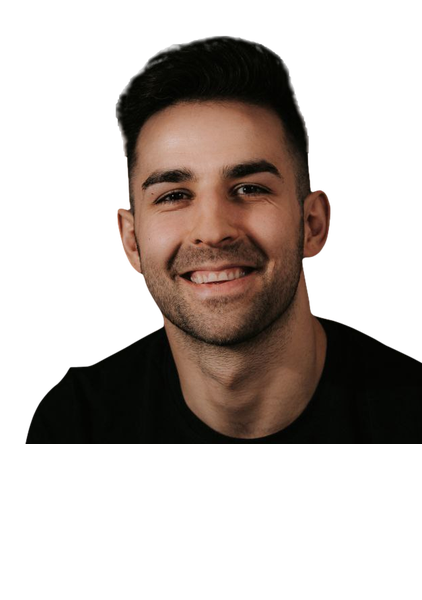
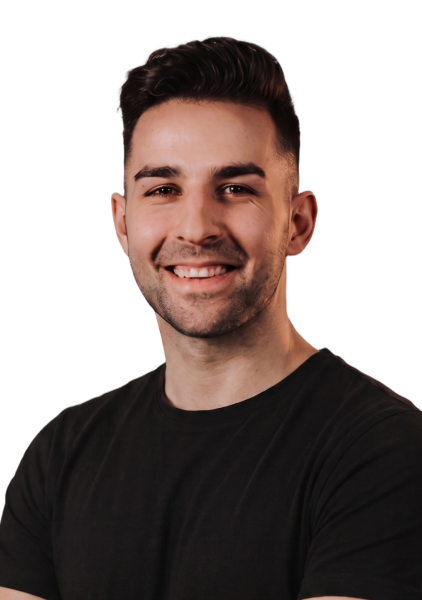
feat(o-nas): restore Paulina, Kasia and Przemysław to the team slider
All three were commented out of the slider (PL + EN) pending better source
photos: Paulina and Katarzyna had only low-res square crops, and Przemysław a
tight head+shoulders crop that floated in the full-height frame. New
front-facing 2K studio portraits resolve all three, so the entries are
uncommented and the slider now carries the full 12-person roster in both
locales, matching the homepage grid.

Portraits re-cut through the slider recipe (bria-rmbg + decontam, head width
anchored to 0.42 of the frame): the three land at 0.396-0.418, in line with the
existing cohort's ~0.39, and bleed off the bottom edge like the rest. The
homepage why-that-works grid needed no change — it reads the same
public/o-nas/slider files.

diff --git a/lib/content/o-nas.ts b/lib/content/o-nas.ts
@@ -228,17 +228,13 @@ export const oNasTeam = {
       bio: 'Zaczynała w Warner Bros. Discovery, tworząc komunikację dla marek takich jak player.pl, TVN czy HBO Max. Dziś w Social Lamie prowadzi zespół, koordynuje komórkę wideo i odpowiada za strategie oraz kampanie dla marek z wielu branż.',
       photo: '/o-nas/slider/emilia-metryka.png',
     },
-    // TEMP: excluded pending a better source photo — the only shot we have is a
-    // low-res square crop that can't be cut out to match the front-facing
-    // head+torso set. Re-enable (here and in o-nas.en.ts) once a proper photo
-    // arrives. Keep this in sync with the EN twin so PL/EN parity holds.
-    // {
-    //   given: 'PAULINA',
-    //   surname: 'HILDEBRAND',
-    //   role: 'Social Media Manager',
-    //   bio: 'Łączy humanistyczną wrażliwość na słowo z analitycznym podejściem do danych, tworząc komunikację, która naprawdę działa w social mediach. Specjalizuje się w kompleksowym prowadzeniu profili marek — od strategii po relacje z klientami.',
-    //   photo: '/o-nas/slider/paulina-hildebrand.png',
-    // },
+    {
+      given: 'PAULINA',
+      surname: 'HILDEBRAND',
+      role: 'Social Media Manager',
+      bio: 'Łączy humanistyczną wrażliwość na słowo z analitycznym podejściem do danych, tworząc komunikację, która naprawdę działa w social mediach. Specjalizuje się w kompleksowym prowadzeniu profili marek — od strategii po relacje z klientami.',
+      photo: '/o-nas/slider/paulina-hildebrand.png',
+    },
     {
       given: 'MAGDA',
       surname: 'ROKICKA',
@@ -253,16 +249,13 @@ export const oNasTeam = {
       bio: 'Specjalizuje się w komunikacji marek z obszaru B2B oraz branży medycznej, łącząc podejście strategiczne z kompetencjami z zakresu zarządzania. Tworzy również materiały wizualne — grafiki, wideo i treści UGC.',
       photo: '/o-nas/slider/kornelia-orlik.png',
     },
-    // TEMP: excluded pending a better source photo (see the Paulina note above) —
-    // low-res square crop, tilted 3/4 pose that can't be matched to the set.
-    // Re-enable here and in o-nas.en.ts together.
-    // {
-    //   given: 'KATARZYNA',
-    //   surname: 'KAPTUR',
-    //   role: 'Social Media Expert',
-    //   bio: 'Od ponad 4 lat działa w marketingu — w Social Lamie tworzy angażujące treści i wspiera marki w budowaniu spójnej, silnej obecności online. Łączy wykształcenie z zakresu Communication Management z kreatywnym podejściem do contentu.',
-    //   photo: '/o-nas/slider/katarzyna-kaptur.png',
-    // },
+    {
+      given: 'KATARZYNA',
+      surname: 'KAPTUR',
+      role: 'Social Media Expert',
+      bio: 'Od ponad 4 lat działa w marketingu — w Social Lamie tworzy angażujące treści i wspiera marki w budowaniu spójnej, silnej obecności online. Łączy wykształcenie z zakresu Communication Management z kreatywnym podejściem do contentu.',
+      photo: '/o-nas/slider/katarzyna-kaptur.png',
+    },
     {
       given: 'OLIWIA',
       surname: 'WITEWSKA',
@@ -284,18 +277,13 @@ export const oNasTeam = {
       bio: 'Łączy strategiczne spojrzenie z intuicją komunikacyjną, pomagając markom odnaleźć własny, spójny kierunek. Od ponad 10 lat działa w marketingu i digitalu — od strategii, przez angażujący content, po analizę wyników.',
       photo: '/o-nas/slider/martyna-borowik.png',
     },
-    // TEMP: excluded from the slider — the source is a tight head+shoulders
-    // crop, so the full-height slider frame shows a hard "cardboard" torso edge
-    // with empty space below. Kept in the homepage team grid (why-that-works),
-    // where the 4:5 cover crop hides it. Re-enable here and in o-nas.en.ts once
-    // a head-to-waist photo (or an outpainted torso) is available.
-    // {
-    //   given: 'PRZEMYSŁAW',
-    //   surname: 'ŚWIERCZ',
-    //   role: 'Fullstack Developer',
-    //   bio: 'Odpowiada za rozwój i utrzymanie strony Social Lamy — od frontendu, przez backend, po wydajność i wdrożenia. Dba, żeby całość działała szybko i niezawodnie.',
-    //   photo: '/o-nas/slider/przemyslaw-swiercz.png',
-    // },
+    {
+      given: 'PRZEMYSŁAW',
+      surname: 'ŚWIERCZ',
+      role: 'Fullstack Developer',
+      bio: 'Odpowiada za rozwój i utrzymanie strony Social Lamy — od frontendu, przez backend, po wydajność i wdrożenia. Dba, żeby całość działała szybko i niezawodnie.',
+      photo: '/o-nas/slider/przemyslaw-swiercz.png',
+    },
   ],
 } as const
 

diff --git a/lib/content/o-nas.en.ts b/lib/content/o-nas.en.ts
@@ -192,15 +192,13 @@ export const oNasTeam = {
       bio: 'She started at Warner Bros. Discovery, building communication for brands like player.pl, TVN, and HBO Max. Today at Social Lama she leads a team, coordinates the video unit, and owns strategy and campaigns for brands across many industries.',
       photo: '/o-nas/slider/emilia-metryka.png',
     },
-    // TEMP: excluded pending a better source photo (mirrors o-nas.ts) — low-res
-    // square crop that can't match the front-facing set. Re-enable in both files.
-    // {
-    //   given: 'PAULINA',
-    //   surname: 'HILDEBRAND',
-    //   role: 'Social Media Manager',
-    //   bio: "She pairs a humanist's feel for words with an analytical take on data, making communication that actually works on social. She specializes in running brand profiles end to end — from strategy to client relationships.",
-    //   photo: '/o-nas/slider/paulina-hildebrand.png',
-    // },
+    {
+      given: 'PAULINA',
+      surname: 'HILDEBRAND',
+      role: 'Social Media Manager',
+      bio: "She pairs a humanist's feel for words with an analytical take on data, making communication that actually works on social. She specializes in running brand profiles end to end — from strategy to client relationships.",
+      photo: '/o-nas/slider/paulina-hildebrand.png',
+    },
     {
       given: 'MAGDA',
       surname: 'ROKICKA',
@@ -215,15 +213,13 @@ export const oNasTeam = {
       bio: 'She specializes in B2B and medical-sector brand communication, pairing a strategic approach with management know-how. She also creates the visuals — graphics, video, and UGC.',
       photo: '/o-nas/slider/kornelia-orlik.png',
     },
-    // TEMP: excluded pending a better source photo (mirrors o-nas.ts) — low-res
-    // square crop, tilted pose. Re-enable in both files together.
-    // {
-    //   given: 'KATARZYNA',
-    //   surname: 'KAPTUR',
-    //   role: 'Social Media Expert',
-    //   bio: 'Over 4 years in marketing — at Social Lama she creates engaging content and helps brands build a coherent, strong presence online. She blends a Communication Management background with a creative take on content.',
-    //   photo: '/o-nas/slider/katarzyna-kaptur.png',
-    // },
+    {
+      given: 'KATARZYNA',
+      surname: 'KAPTUR',
+      role: 'Social Media Expert',
+      bio: 'Over 4 years in marketing — at Social Lama she creates engaging content and helps brands build a coherent, strong presence online. She blends a Communication Management background with a creative take on content.',
+      photo: '/o-nas/slider/katarzyna-kaptur.png',
+    },
     {
       given: 'OLIWIA',
       surname: 'WITEWSKA',
@@ -245,15 +241,12 @@ export const oNasTeam = {
       bio: 'She pairs a strategic view with communication instinct, helping brands find their own, coherent direction. Over 10 years in marketing and digital — from strategy, through engaging content, to reading the results.',
       photo: '/o-nas/slider/martyna-borowik.png',
     },
-    // TEMP: excluded from the slider (see the o-nas.ts note) — tight head+
-    // shoulders crop floats in the full-height frame. Kept in the homepage
-    // team grid. Re-enable here in sync with o-nas.ts.
-    // {
-    //   given: 'PRZEMYSŁAW',
-    //   surname: 'ŚWIERCZ',
-    //   role: 'Fullstack Developer',
-    //   bio: 'Owns the build and upkeep of the Social Lama site — front end, back end, performance and deploys — keeping the whole thing fast and reliable.',
-    //   photo: '/o-nas/slider/przemyslaw-swiercz.png',
-    // },
+    {
+      given: 'PRZEMYSŁAW',
+      surname: 'ŚWIERCZ',
+      role: 'Fullstack Developer',
+      bio: 'Owns the build and upkeep of the Social Lama site — front end, back end, performance and deploys — keeping the whole thing fast and reliable.',
+      photo: '/o-nas/slider/przemyslaw-swiercz.png',
+    },
   ],
 } satisfies LocalizedONas['oNasTeam']